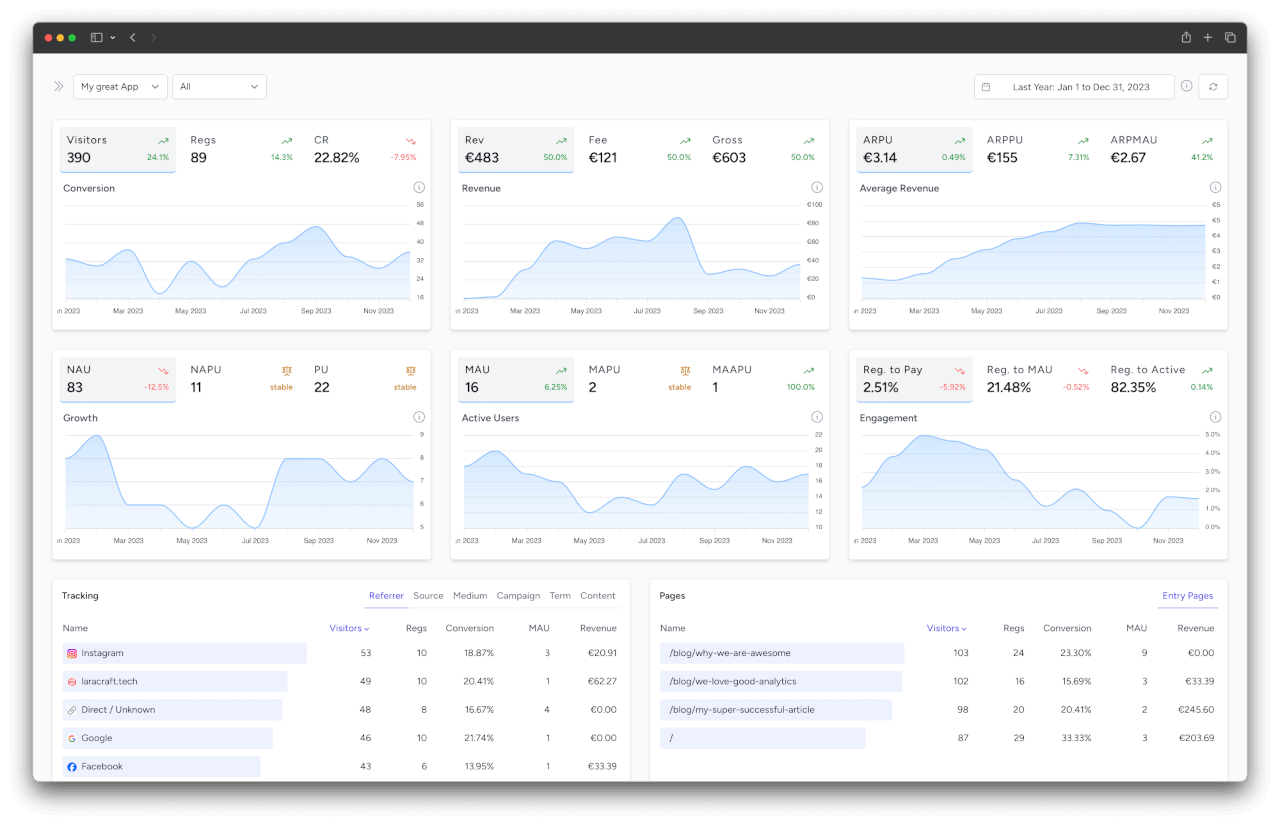
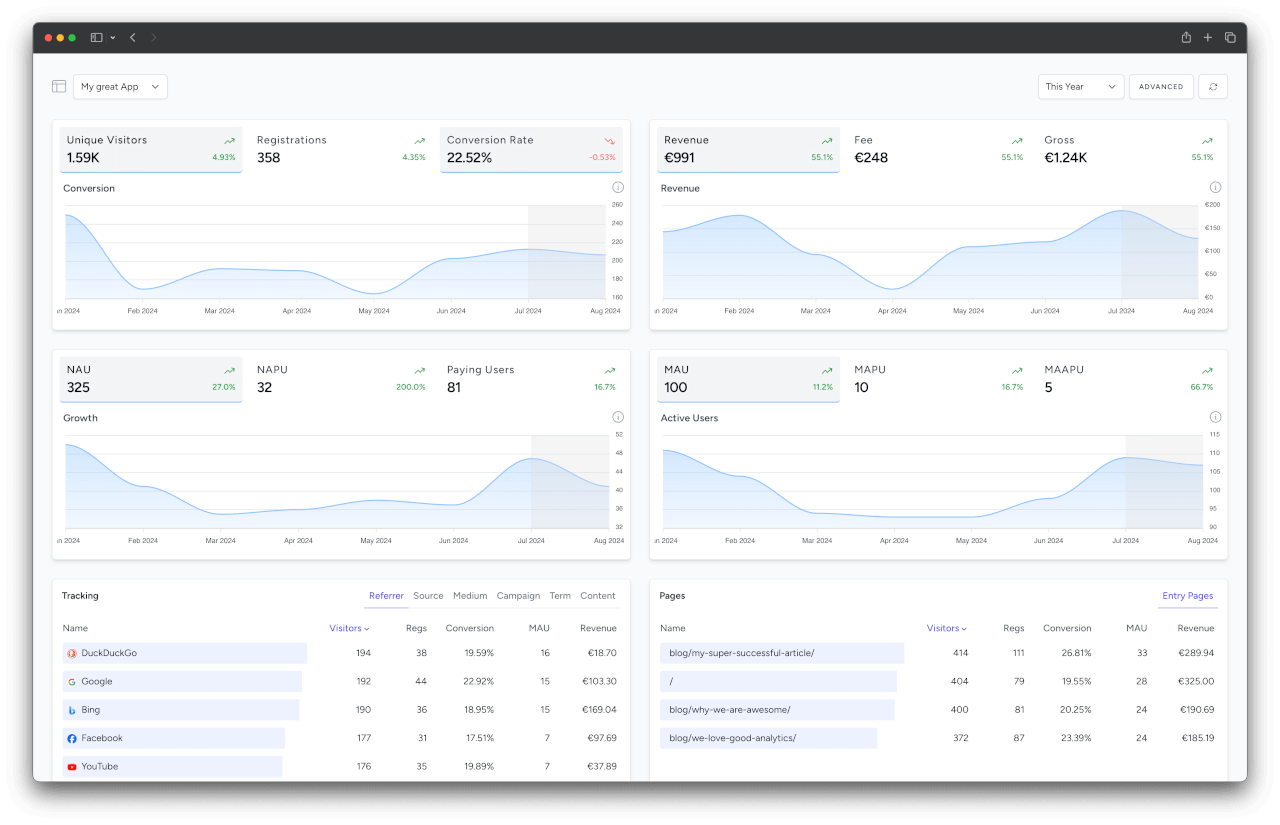
advanced option

diff --git a/resources/js/Pages/Dashboard/Partials/StatsFilter.vue b/resources/js/Pages/Dashboard/Partials/StatsFilter.vue
@@ -20,6 +20,7 @@ import {
 } from "date-fns";
 import TextInput from "@/Components/TextInput.vue";
 import {onMounted, ref} from "vue";
+import ToggleButton from "@/Components/ToggleButton.vue";
 
 const props = defineProps({
     teamStats: Object,
@@ -40,10 +41,7 @@ const rangeAmounts = Array.from({ length: 60 }, (_, i) => ({
 }));
 
 const submit = () => {
-    form.transform(data => ({
-        ...data,
-        lifetime: form.lifetime ? 1 : 0,
-    })).get(route('dashboard'), {preserveScroll: true});
+    form.get(route('dashboard'), {preserveScroll: true});
 };
 
 const filterChanged = (event) => {
@@ -232,6 +230,10 @@ function isStatsGroupSet() {
                                         :options="presets"
                                         @change="presetChanged"
                                     />
+                                </div>
+                                <div>
+                                    <InputLabel class="hidden" for="advanced" value="&nbsp;" />
+                                    <ToggleButton class="mt-1" id="advanced" v-model:checked="page.props.auth.user.settings.showAdvanced" buttonText="Advanced" type="button" @click="$inertia.get(route('user-settings.toggle-advanced'))" />
                                 </div>
                                 <div class="hidden">
                                     <div v-tooltip.left="{ content: `<div class='flex flex-col space-y-4 max-w-64 p-2 text-sm'>${chartDescription}</div>`, html: true }" class="text-gray-400">

diff --git a/resources/js/Components/ToggleButton.vue b/resources/js/Components/ToggleButton.vue
@@ -36,7 +36,7 @@ const toggleChecked = () => {
 <template>
     <button
         class="inline-flex items-center px-4 py-3  border border-gray-300 dark:border-gray-500 rounded-md font-semibold text-xs text-gray-700 dark:text-gray-300 uppercase tracking-widest shadow-sm focus:outline-none focus:ring-2 focus:ring-indigo-500 focus:ring-offset-2 dark:focus:ring-offset-gray-800 disabled:opacity-25 transition ease-in-out duration-150"
-        :class="proxyChecked ? 'bg-green-100' : 'bg-white dark:bg-gray-800 hover:bg-gray-50 dark:hover:bg-gray-700'"
+        :class="proxyChecked ? 'bg-indigo-100' : 'bg-white dark:bg-gray-800 hover:bg-gray-50 dark:hover:bg-gray-700'"
         @click="toggleChecked"
     >
         {{ buttonText }}

diff --git a/resources/js/Pages/Dashboard/Partials/StatsCharts.vue b/resources/js/Pages/Dashboard/Partials/StatsCharts.vue
@@ -187,6 +187,10 @@ let charts = [
     },
 ];
 
+if (! page.props.auth.user.settings.showAdvanced) {
+    charts = charts.filter(function (item) {return item.name !== 'Average Revenue' && item.name !== 'Engagement';});
+}
+
 charts.forEach(function(chartGroup, chartIndex) {
     let info = ``;
 
@@ -225,7 +229,7 @@ charts.forEach(function(chartGroup, chartIndex) {
 </script>
 
 <template>
-    <div class="grid gap-8 xl:grid-cols-2 3xl:grid-cols-3">
+    <div class="grid gap-8 xl:grid-cols-2" :class="(page.props.auth.user.settings.showAdvanced) ? '3xl:grid-cols-3' : '5xl:grid-cols-4'">
         <StatsChart v-for="(chart, chartIndex) in charts" :chart="chart" :chartIndex="chartIndex" />
     </div>
 </template>

diff --git a/resources/js/Pages/Dashboard/Index.vue b/resources/js/Pages/Dashboard/Index.vue
@@ -56,7 +56,7 @@ onUnmounted(() => {
                     :topReferers="topReferers"
                 />
             </div>
-            <div class="grid gap-8 grid-cols-1" :class="filters.projectId ? 'lg:grid-cols-1 2xl:grid-cols-1' : 'lg:grid-cols-1 2xl:grid-cols-1'">
+            <div class="grid gap-8">
                 <div>
                     <StatsCharts
                         :filters="filters"

diff --git a/resources/js/Components/MenuToggler.vue b/resources/js/Components/MenuToggler.vue
@@ -5,7 +5,7 @@ import InputLabel from "@/Components/InputLabel.vue";
 const form = useForm({});
 
 const submitToggle = () => {
-    form.post(route('menu.toggle'), {preserveScroll: true, only: ['auth']});
+    form.post(route('user-settings.toggle-menu'), {preserveScroll: true, only: ['auth']});
 };
 </script>
 

diff --git a/routes/web.php b/routes/web.php
@@ -4,7 +4,7 @@ use App\Http\Controllers\DocsController;
 use App\Http\Controllers\HomeController;
 use App\Http\Controllers\ImprintController;
 use App\Http\Controllers\IntroController;
-use App\Http\Controllers\MenuController;
+use App\Http\Controllers\UserSettingsController;
 use App\Http\Controllers\StatsController;
 use Illuminate\Support\Facades\Route;
 
@@ -50,5 +50,6 @@ Route::middleware([
     Route::get('projects/{project}/instances/{instance}/token-view', [App\Http\Controllers\ProjectInstanceController::class, 'tokenView'])->name('projects.instances.token-view');
     Route::get('projects/{project}/instances/{instance}/token-regenerate', [App\Http\Controllers\ProjectInstanceController::class, 'tokenRegenerate'])->name('projects.instances.token-regenerate');
 
-    Route::post('menu/toggle', [MenuController::class, 'toggle'])->name('menu.toggle');
+    Route::post('user-settings/toggle-menu', [UserSettingsController::class, 'toggleMenu'])->name('user-settings.toggle-menu');
+    Route::get('user-settings/toggle-advanced', [UserSettingsController::class, 'toggleAdvanced'])->name('user-settings.toggle-advanced');
 });

diff --git a/app/Http/Controllers/UserSettingsController.php b/app/Http/Controllers/UserSettingsController.php
@@ -1,0 +1,24 @@
+<?php
+
+namespace App\Http\Controllers;
+
+use Illuminate\Http\Request;
+
+class UserSettingsController extends Controller
+{
+    public function toggleMenu(Request $request)
+    {
+        $showMenu = $request->user()->settings['showMenu'] ?? true;
+        $request->user()->updateSettings('showMenu', ! $showMenu);
+
+        return redirect()->back();
+    }
+
+    public function toggleAdvanced(Request $request)
+    {
+        $showAdvanced = $request->user()->settings['showAdvanced'] ?? false;
+        $request->user()->updateSettings('showAdvanced', ! $showAdvanced);
+
+        return redirect()->back();
+    }
+}

diff --git a/app/Actions/Fortify/CreateNewUser.php b/app/Actions/Fortify/CreateNewUser.php
@@ -54,6 +54,7 @@ class CreateNewUser implements CreatesNewUsers
                 'name' => $input['name'],
                 'email' => $input['email'],
                 'password' => Hash::make($input['password']),
+                'settings' => ['placeholder' => 1],
             ];
 
             return tap(User::create($createUser), function (User $user) use ($invitationRequest, $invitation) {
